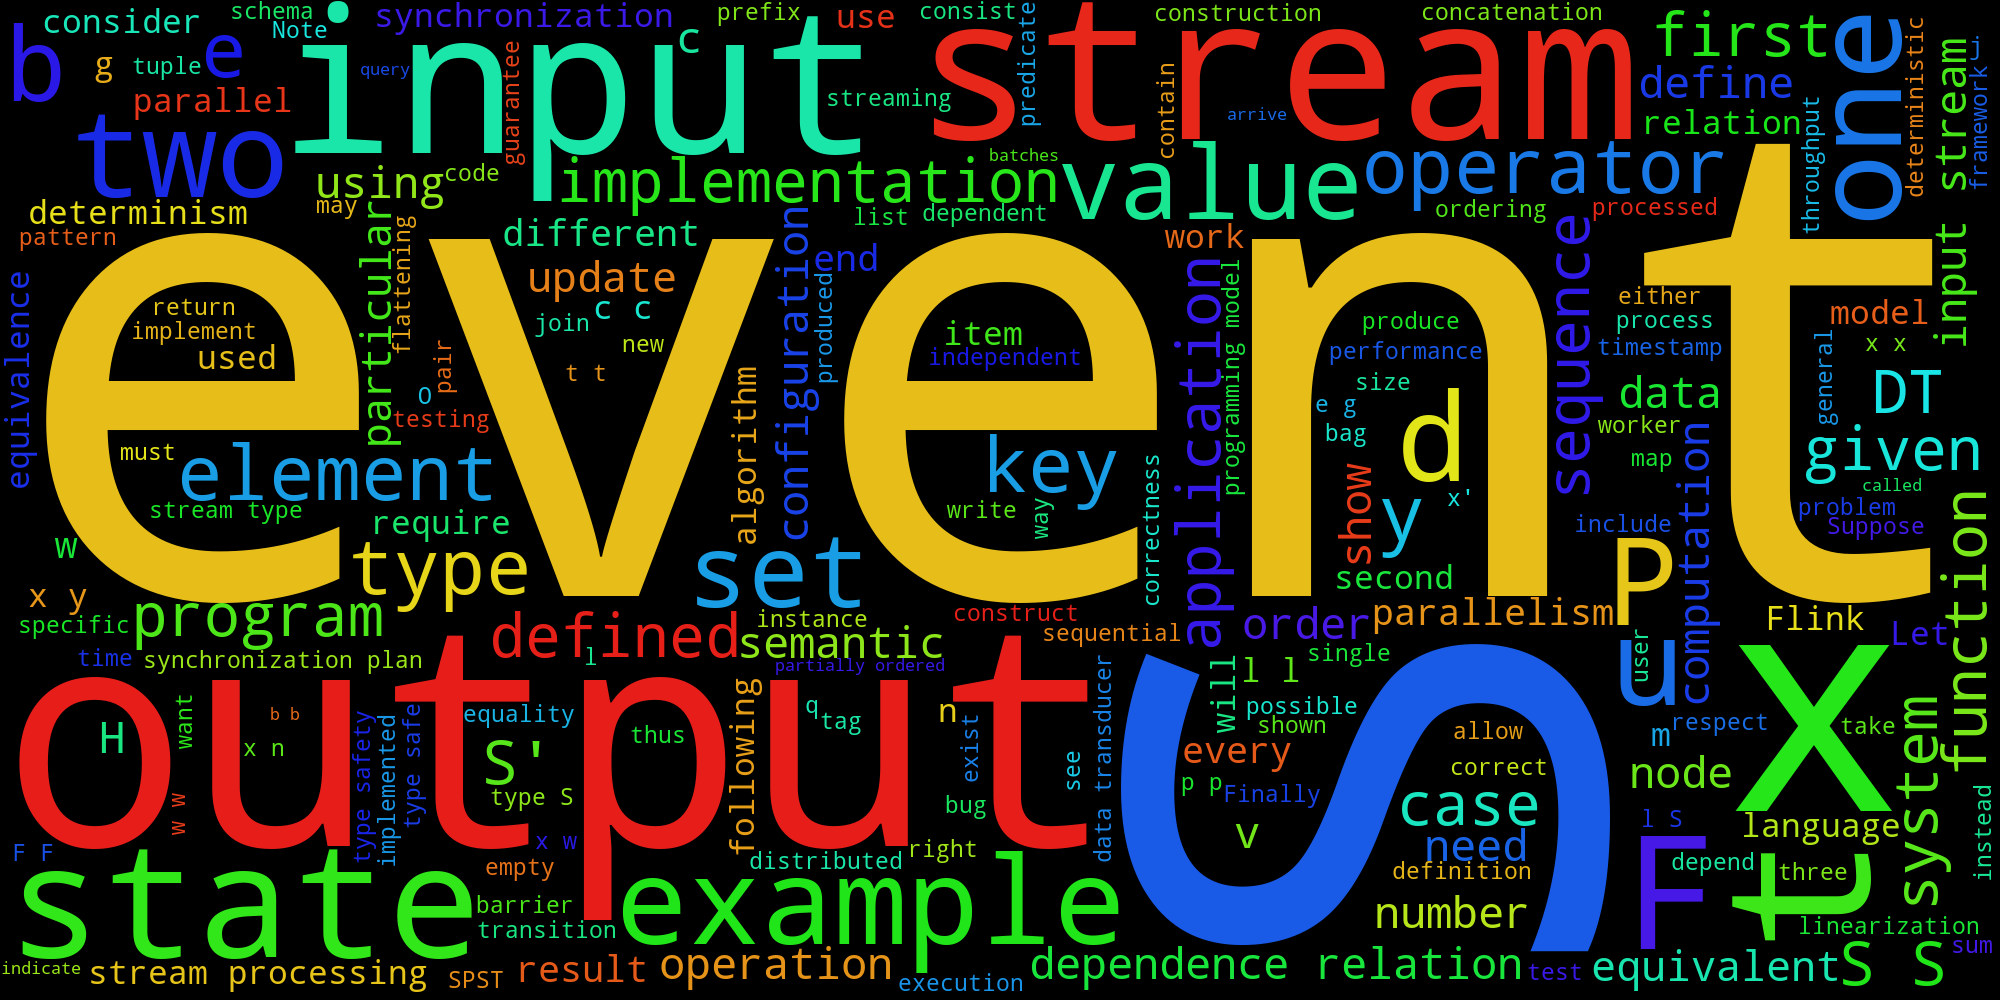
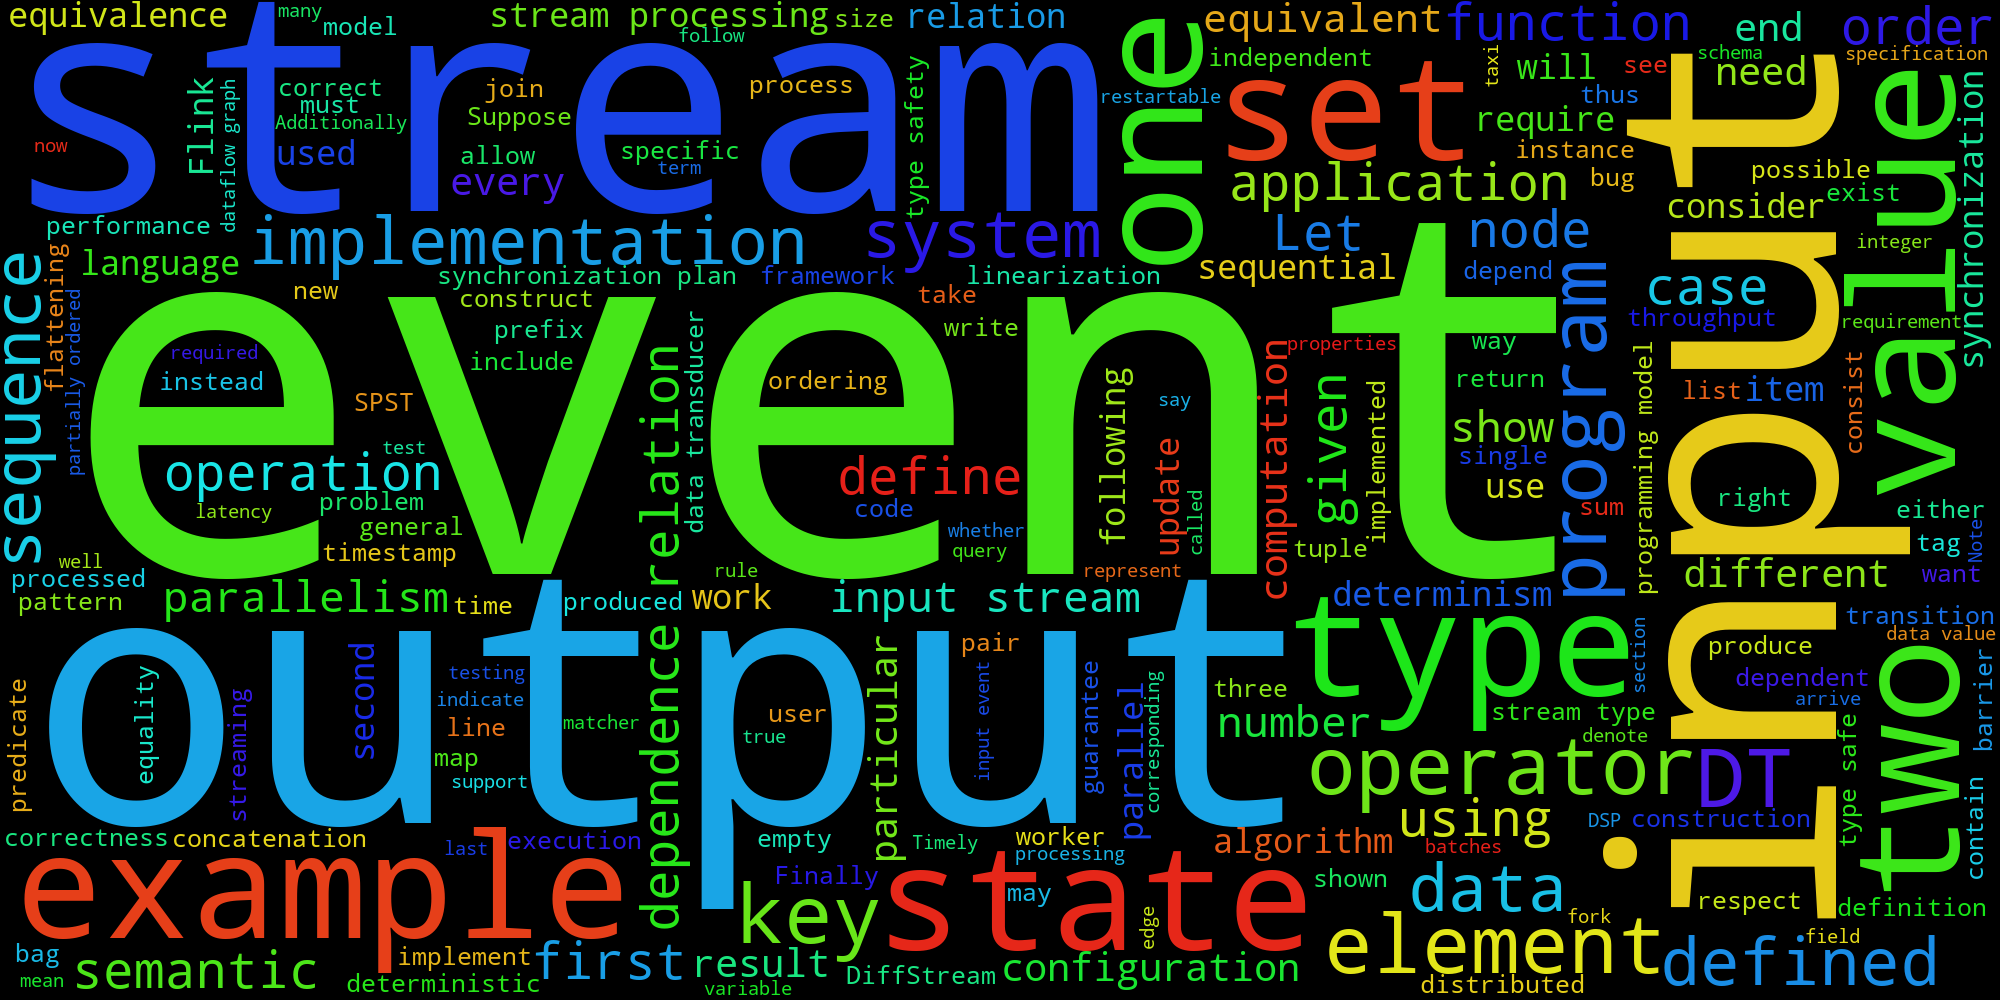
more wordcloud improvements

diff --git a/src/appendix.tex b/src/appendix.tex
@@ -5,7 +5,8 @@
 \section{Word Clouds}
 
 Here is a word cloud generated from all the text in this thesis.
-I used the \githubref{https://github.com/amueller/word\_cloud}{\texttt{wordcloud\_cli} Python tool} on all \verb|.tex| sources, crudely filtering out LaTeX-related words. In particular, I filtered out comments (anything after \verb|%|), commands (words starting with \verb|/|), and selected arguments (contents inside \verb|\begin|, \verb|\end|, \verb|\label|, \verb|\Cref|, and \verb|\cite|).
+I used the \githubref{https://github.com/amueller/word\_cloud}{\texttt{wordcloud\_cli} Python tool} on all \verb|.tex| sources and \verb|sed| to crudely filter out LaTeX-related words. In particular, I filtered out comments (anything after \verb|%|), commands (words starting with \verb|/|), and selected arguments
+(contents inside \verb|\begin|, \verb|\end|, \verb|\label|, \verb|\ref|, \verb|\cite|, etc.).
 
 \headerblock{
   \includegraphics[width=0.6\textwidth]{img/wordcloud.png}
